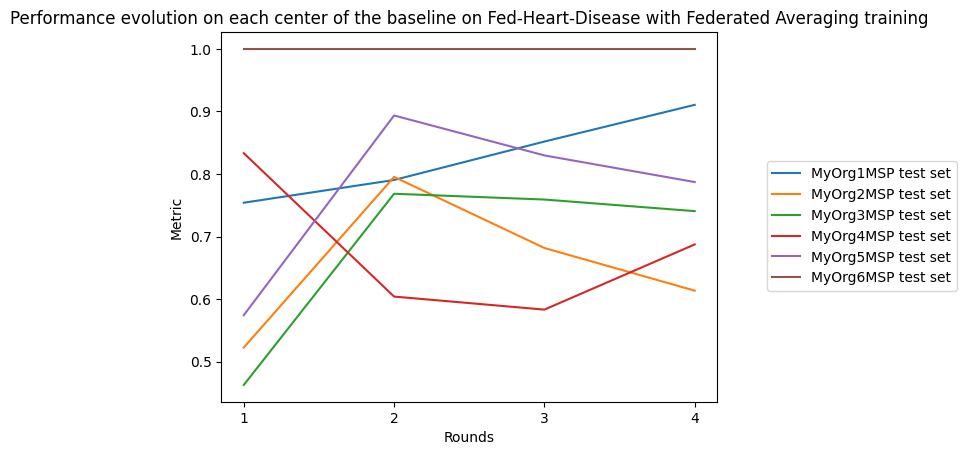
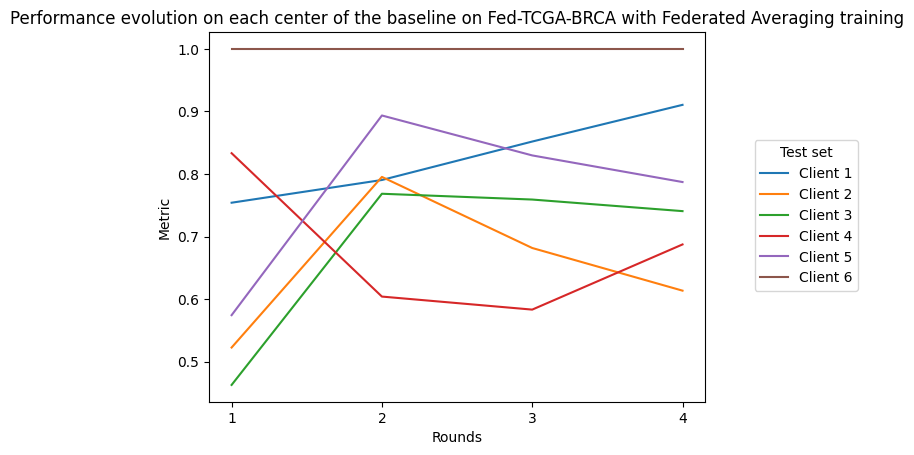
update plot

diff --git a/integration/Substra/flamby-integration-into-substra.md b/integration/Substra/flamby-integration-into-substra.md
@@ -5,6 +5,7 @@
 Substra main usage is a **production one**. It has already been deployed and used by hospitals and biotech companies (see the [MELLODDY](https://www.melloddy.eu/) project for instance).
 
 Yet [**Substra**](https://docs.substra.org/en/0.21.0/) can also be used on a single machine on a virtually splitted dataset for two use cases:
+
 - debugging code before launching experiments on a real network
 - performing FL simulations
 
@@ -20,7 +21,7 @@ The objective of this example is to launch a *federated learning* experiment on 
 
 This example does not use the deployed platform of Substra and will run in local mode.
 
-## Requirements:
+## Requirements
 
 To run this example locally, please make sure to download and unzip in the same directory as this example the assets needed to run it:
 
@@ -28,7 +29,7 @@ Please ensure to have all the libraries installed, a `requirements.txt` file is 
 
 You can run the command: `pip install -r requirements.txt` to install them.
 
-## Objective:
+## Objective
 
 This example will run a federated training on all 6 centers of the TCGA BRCA [**FLamby**](https://github.com/owkin/FLamby) dataset.
 
@@ -37,8 +38,8 @@ This example shows how to interface [**Substra**](https://docs.substra.org/en/0.
 This example runs in local mode, simulating a **federated learning** experiment.
 
 # Client and data preparation
-## Imports
 
+## Imports
 
 ```python
 import os
@@ -47,10 +48,10 @@ import zipfile
 ```
 
 # Creating the Substra Client
+
 We work with six different organizations, defined by their IDs. All organizations provide a FLamby dataset configuration. One of them will also provide the algorithm and will register the machine learning tasks.
 
 Once these variables defined, we can create our different [**Substra Client**](https://docs.substra.org/en/0.21.0/documentation/references/sdk.html#client) (one for each organization/center).
-
 
 ```python
 from substra import Client
@@ -73,9 +74,8 @@ assets_directory = pathlib.Path.cwd() / "assets"
 ```
 
 # Registering assets
+
 ## Substra and Substrafl imports
-
-
 
 ```python
 from substra.sdk.schemas import (
@@ -92,10 +92,10 @@ from substrafl.nodes import TestDataNode, TrainDataNode
 ```
 
 ## Permissions
+
 As data can not be seen once it is registered on the platform, we set a [**Permissions**](https://docs.substra.org/en/0.21.0/documentation/references/sdk_schemas.html#permissions) object for each [**Assets**](https://docs.substra.org/en/0.21.0/documentation/concepts.html#assets), defining their access rights to the different data.
 
 The metadata are visible by all the users of a [**Channel**](https://docs.substra.org/en/0.21.0/additional/glossary.html#term-Channel).
-
 
 ```python
 permissions = Permissions(public=False, authorized_ids=ORGS_ID)
@@ -105,9 +105,9 @@ permissions = Permissions(public=False, authorized_ids=ORGS_ID)
 
 A metric corresponds to an algorithm used to compute the score of prediction on a **datasample**.
 Concretely, a metric corresponds to an archive *(tar or zip file)*, automatically build from:
+
 - a **Python scripts** that implement the metric computation
 - a [**Dockerfile**](https://docs.docker.com/engine/reference/builder/) to specify the required dependencies of the **Python scripts**
-
 
 ```python
 inputs_metrics = [
@@ -154,7 +154,6 @@ To interface with [**FLamby**](https://github.com/owkin/FLamby), the utilization
 As we directly load a torch dataset from Flamby, the `folders` parameters is unused and the path usually leading to the data will point out a empty folder in this example.
 
 Now that all our [**Assets**](https://docs.substra.org/en/0.21.0/documentation/concepts.html#assets) are well defined, we can create the [**TrainDataNodes**](https://docs.substra.org/en/0.21.0/substrafl_doc/api/nodes.html#traindatanode) and the [**TestDataNodes**](https://docs.substra.org/en/0.21.0/substrafl_doc/api/nodes.html#testdatanode) to gathered the [**Datasets**](https://docs.substra.org/en/0.21.0/documentation/concepts.html#dataset) and the **datasamples** on the specified organization.
-
 
 ```python
 train_data_nodes = list()
@@ -233,8 +232,6 @@ for ind, org_id in enumerate(ORGS_ID):
 
 ## Machine Learning specification
 
-
-
 ```python
 from flamby.datasets.fed_tcga_brca import (
     FedTcgaBrca,
@@ -252,8 +249,6 @@ criterion = BaselineLoss()
 ```
 
 ## Substrafl imports
-
-
 
 ```python
 
@@ -291,7 +286,6 @@ But as the `__getitem__` function is provided by [**FLamby**](https://github.com
 to:
 
 `for x, _ in predict_loader:`.
-
 
 ```python
 NUM_UPDATES = 16
@@ -343,7 +337,6 @@ The **dependencies** needed for the [**Torch Algorithms**](https://docs.substra.
 
 In a **local subprocess** mode (selected mode for this example), the algo dependencies are not installed as the local environment is used instead. The following cell is given as an example of use of the [**Dependency**](https://docs.substra.org/en/0.21.0/substrafl_doc/api/dependency.html) object.
 
-
 ```python
 algo_deps = Dependency(pypi_dependencies=["torch==1.11.0"])
 ```
@@ -351,7 +344,6 @@ algo_deps = Dependency(pypi_dependencies=["torch==1.11.0"])
 ## Federated Learning strategies
 
 For this example, we choose to use the [**Federated averaging Strategy**](https://docs.substra.org/en/0.21.0/substrafl_doc/api/strategies.html)), based on the [FedAvg paper by McMahan et al., 2017](https://arxiv.org/abs/1602.05629).
-
 
 ```python
 strategy = FedAvg()
@@ -370,8 +362,6 @@ We now have all the necessary objects to launch our experiment. Below a summary 
 - The **number of round**, a round being defined by a local training step followed by an aggregation operation
 - An **experiment folder** to save a summary of the operation made
 - The [**Dependency**](https://docs.substra.org/en/0.21.0/substrafl_doc/api/dependency.html) to define the libraries the experiment needs to run.
-
-
 
 ```python
 aggregation_node = AggregationNode(ALGO_ORG_ID)
@@ -394,52 +384,34 @@ compute_plan = execute_experiment(
 )
 ```
 
-    2022-10-04 11:42:16,604 - INFO - Building the compute plan.
-    2022-10-04 11:42:16,612 - INFO - Registering the algorithm to Substra.
-    2022-10-04 11:42:16,642 - INFO - Registering the compute plan to Substra.
-    2022-10-04 11:42:16,644 - INFO - Experiment summary saved to /Users/tfouqueray/Documents/Substra-repository/FLamby/integration/Substra/experiment_summaries/2022_10_04_11_42_16_ecde78bc-ed8f-4dfe-82c3-ce8957a41eb7.json
-    /Users/tfouqueray/.virtualenvs/flamby_example/lib/python3.9/site-packages/substra/sdk/backends/local/backend.py:400: UserWarning: 'clean_models=True' is ignored on the local backend.
-      warnings.warn("'clean_models=True' is ignored on the local backend.")
-
-
-
     Compute plan progress:   0%|          | 0/82 [00:00<?, ?it/s]
 
 
-    2022-10-04 11:45:22,398 - INFO - The compute plan has been registered to Substra, its key is ecde78bc-ed8f-4dfe-82c3-ce8957a41eb7.
-
+    2022-10-06 09:19:32,325 - INFO - The compute plan has been registered to Substra, its key is a509fb03-f8c3-4fc0-ad40-f775bb6489c6.
 
 ## Plot results
-
-
 
 ```python
 import pandas as pd
 import matplotlib.pyplot as plt
 ```
 
-
 ```python
-plt.title("Performance evolution on each center of the baseline on Fed-Heart-Disease with Federated Averaging training")
+plt.title("Performance evolution on each center of the baseline on Fed-TCGA-BRCA with Federated Averaging training")
 plt.xlabel("Rounds")
 plt.ylabel("Metric")
 
 performance_df = pd.DataFrame(client.get_performances(compute_plan.key).dict())
 
-for id in ORGS_ID:
+for i, id in enumerate(ORGS_ID):
     df = performance_df.query(f"worker == '{id}'")
-    plt.plot(df["round_idx"], df["performance"], label=id + " test set")
+    plt.plot(df["round_idx"], df["performance"], label="Client " + str(i+1))
 
-plt.legend(loc=(1.1, 0.3))
+plt.legend(loc=(1.1, 0.3), title="Test set")
 plt.show()
 ```
 
-
-
 ![png](markdown-image/output.png)
-
-
-
 
 ```python
 
